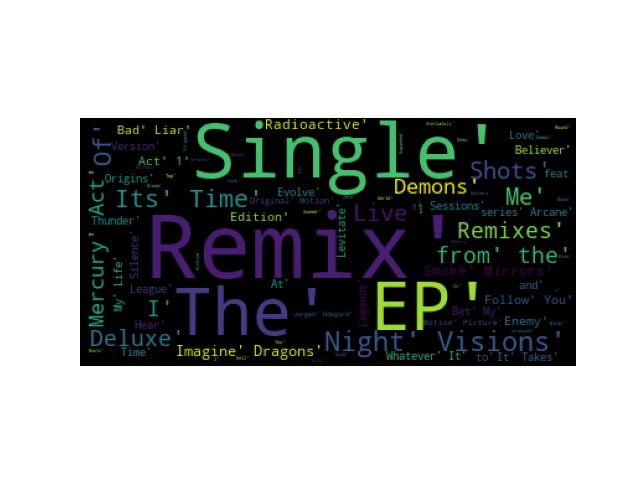
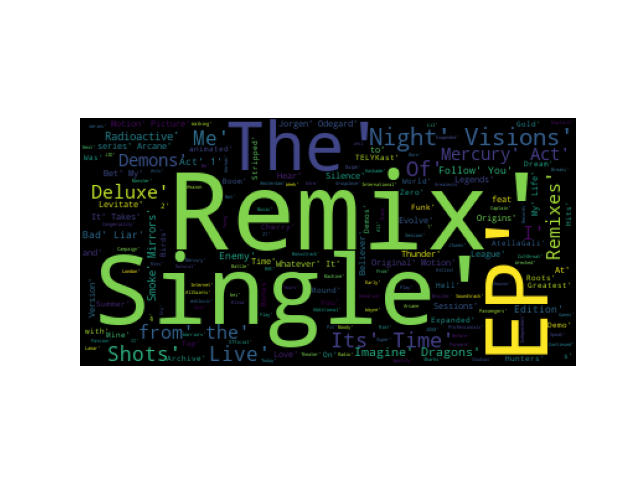
ataulize funcoes e imagens

Changed region(s): [[0.125, 0.25, 0.9062, 0.75]]

diff --git a/package1/perguntas_etapa_2/grupo_perg_2.py b/package1/perguntas_etapa_2/grupo_perg_2.py
@@ -5,63 +5,63 @@ import matplotlib.pyplot as plt
 #Resposta da perguna 1
 
 
-#texto_albuns, palavras_mais_comuns_albuns = fun.albuns_mais_plv()
-#
-#print(f"\n\n\n\nNúmero de vezes que cada palavra aparece nos álbuns:\n\n{palavras_mais_comuns_albuns}")
-#
-#print("\n\n\n\nWordCloud das palavras mais comuns nos nomes dos álbuns\n\n")
-#nuvem_palavras_comuns_album = fun.wordcloud_album(texto_albuns)
-##print(nuvem_palavras_comuns_album)
-#
-#
-##Resposta da perguna 2
-#
-#texto_musicas, palavras_mais_comuns_nomes_musicas = fun.musicas_mais_plv()
-#
-#print(f"\n\n\n\nNúmero de vezes que cada palavra aparece nos nomes das músicas:\n\n{palavras_mais_comuns_nomes_musicas}")
-#print("\n\n\n\nWordCloud das palavras mais comuns nos nomes das músicas\n\n")
-#nuvem_palavras_comuns_nomes_musicas = fun.wordcloud_musica(texto_musicas)
-#
+texto_albuns, palavras_mais_comuns_albuns = fun.albuns_mais_plv()
 
-#Resposta da perguna 3
-# @@@@@@@@@@@@@@@@@@@@@@@@@@@@@@@@@@@@@@@@@@  REVER   @@@@@@@@@@@@@@@@@@@@@@@@@
-fun.letras_por_album()
+print(f"\n\n\n\nNúmero de vezes que cada palavra aparece nos álbuns:\n\n{palavras_mais_comuns_albuns}")
+
+print("\n\n\n\nWordCloud das palavras mais comuns nos nomes dos álbuns\n\n")
+nuvem_palavras_comuns_album = fun.wordcloud_album(texto_albuns)
+#print(nuvem_palavras_comuns_album)
 
 
+#Resposta da perguna 2
 
-##Resposta da perguna 4
-#print("\n\n\n\nWordCloud das palavras mais comuns nas letras das músicas(Aguarde, a imagem será aberta)\n\n\n\n")
-#df_letras, contagem_palavras = fun.letras_mais_plv()
-#fun.letras_wordcloud(df_letras)
-#print(f"Número de vezes que cada palavra aparece nas letras das músicas:\n\n{contagem_palavras}")
-#
-#
-#
-#
-#
-##Resposta da perguna 5
-#print("\n\n\n\nRecorrência do nome do álbum na letra\n\n\n\n")
-#df_recorrencia_nome_album = fun.recorrencia_nome_album(dataframe_com_letras)
-#print("\n\n\n\n")
-#print(df_recorrencia_nome_album["recorrencia_nome_album"].value_counts())
-#label = ["Album da música recorrente na letra", "Album da música não recorrente na letra"]
-#pizza_recor_musica = plt.pie(df_recorrencia_nome_album["recorrencia_nome_album"].value_counts(), labels=label)
-#plt.savefig("recorrencia_albuns__letras")
-#plt.show(block=False)
-#plt.pause(6)
-#plt.close()
-#
-#
-#
-##Resposta da pergunta 6
-## Se o nome da música a aparecer na letra a coluna recorrencia_nome_musica terá valor True
-#print("\n\n\n\nRecorrência do nome da música na letra\n\n\n\n")
-#df_recorrencia_nome_musica = fun.recorrencia_nome_musica(df_unicas)
-#print("\n\n\n\n")
-#print(df_recorrencia_nome_musica["recorrencia_nome_musica"].value_counts())
-#label = ["Nome da música recorrente na letra", "Nome da música não recorrente na letra"]
-#pizza_recor_musica = plt.pie(df_recorrencia_nome_musica["recorrencia_nome_musica"].value_counts(), labels=label)
-#plt.savefig("recorrencia_nomes_musicas_letras")
-#plt.show(block=False)
-#plt.pause(6)
-#plt.close()
+texto_musicas, palavras_mais_comuns_nomes_musicas = fun.musicas_mais_plv()
+
+print(f"\n\n\n\nNúmero de vezes que cada palavra aparece nos nomes das músicas:\n\n{palavras_mais_comuns_nomes_musicas}")
+print("\n\n\n\nWordCloud das palavras mais comuns nos nomes das músicas\n\n")
+nuvem_palavras_comuns_nomes_musicas = fun.wordcloud_musica(texto_musicas)
+
+
+# #Resposta da perguna 3
+# # @@@@@@@@@@@@@@@@@@@@@@@@@@@@@@@@@@@@@@@@@@  REVER   @@@@@@@@@@@@@@@@@@@@@@@@@
+# fun.letras_por_album()
+
+
+
+#Resposta da perguna 4
+print("\n\n\n\nWordCloud das palavras mais comuns nas letras das músicas(Aguarde, a imagem será aberta)\n\n\n\n")
+df_letras, contagem_palavras = fun.letras_mais_plv()
+fun.letras_wordcloud(df_letras)
+print(f"Número de vezes que cada palavra aparece nas letras das músicas:\n\n{contagem_palavras}")
+
+
+
+
+
+#Resposta da perguna 5
+print("\n\n\n\nRecorrência do nome do álbum na letra\n\n\n\n")
+df_recorrencia_nome_album = fun.recorrencia_nome_album(dataframe_com_letras)
+print("\n\n\n\n")
+print(df_recorrencia_nome_album["recorrencia_nome_album"].value_counts())
+label = ["Album da música recorrente na letra", "Album da música não recorrente na letra"]
+pizza_recor_musica = plt.pie(df_recorrencia_nome_album["recorrencia_nome_album"].value_counts(), labels=label)
+plt.savefig("recorrencia_albuns__letras")
+plt.show(block=False)
+plt.pause(6)
+plt.close()
+
+
+
+#Resposta da pergunta 6
+# Se o nome da música a aparecer na letra a coluna recorrencia_nome_musica terá valor True
+print("\n\n\n\nRecorrência do nome da música na letra\n\n\n\n")
+df_recorrencia_nome_musica = fun.recorrencia_nome_musica(df_unicas)
+print("\n\n\n\n")
+print(df_recorrencia_nome_musica["recorrencia_nome_musica"].value_counts())
+label = ["Nome da música recorrente na letra", "Nome da música não recorrente na letra"]
+pizza_recor_musica = plt.pie(df_recorrencia_nome_musica["recorrencia_nome_musica"].value_counts(), labels=label)
+plt.savefig("recorrencia_nomes_musicas_letras")
+plt.show(block=False)
+plt.pause(6)
+plt.close()

diff --git a/package1/perguntas_etapa_2/grupo_perg_3.py b/package1/perguntas_etapa_2/grupo_perg_3.py
@@ -19,7 +19,7 @@ def pega_nomeacoes():
     df_nomeacao.value_counts()
     return df_nomeacao
 
-#print(pega_nomeacoes().value_counts())
+print(pega_nomeacoes().value_counts())
 
 #QUAIS FORAM OS ANOS QUE A BANDA MAIS GANHOU PRÊMIO?
 def pega_ano_vencedor():
@@ -34,7 +34,7 @@ def pega_ano_vencedor():
     df_ano_vencedor = pd.DataFrame(vencedor, columns=["Ano Vencedor"]) 
     return df_ano_vencedor
 
-#print(pega_ano_vencedor().value_counts())
+print(pega_ano_vencedor().value_counts())
 
 #QUAIS PREMIOS A BANDA GANHOU EM TODA SUA DISCOGRAFIA?
 def pega_vencedor():
@@ -56,4 +56,4 @@ def numero_vencedor():
     vencedor_premio = vencedor_premio[vencedor_premio.Vencedor=="Winner"].value_counts()
     return vencedor_premio
 
-#print(numero_vencedor())
+print(numero_vencedor())
